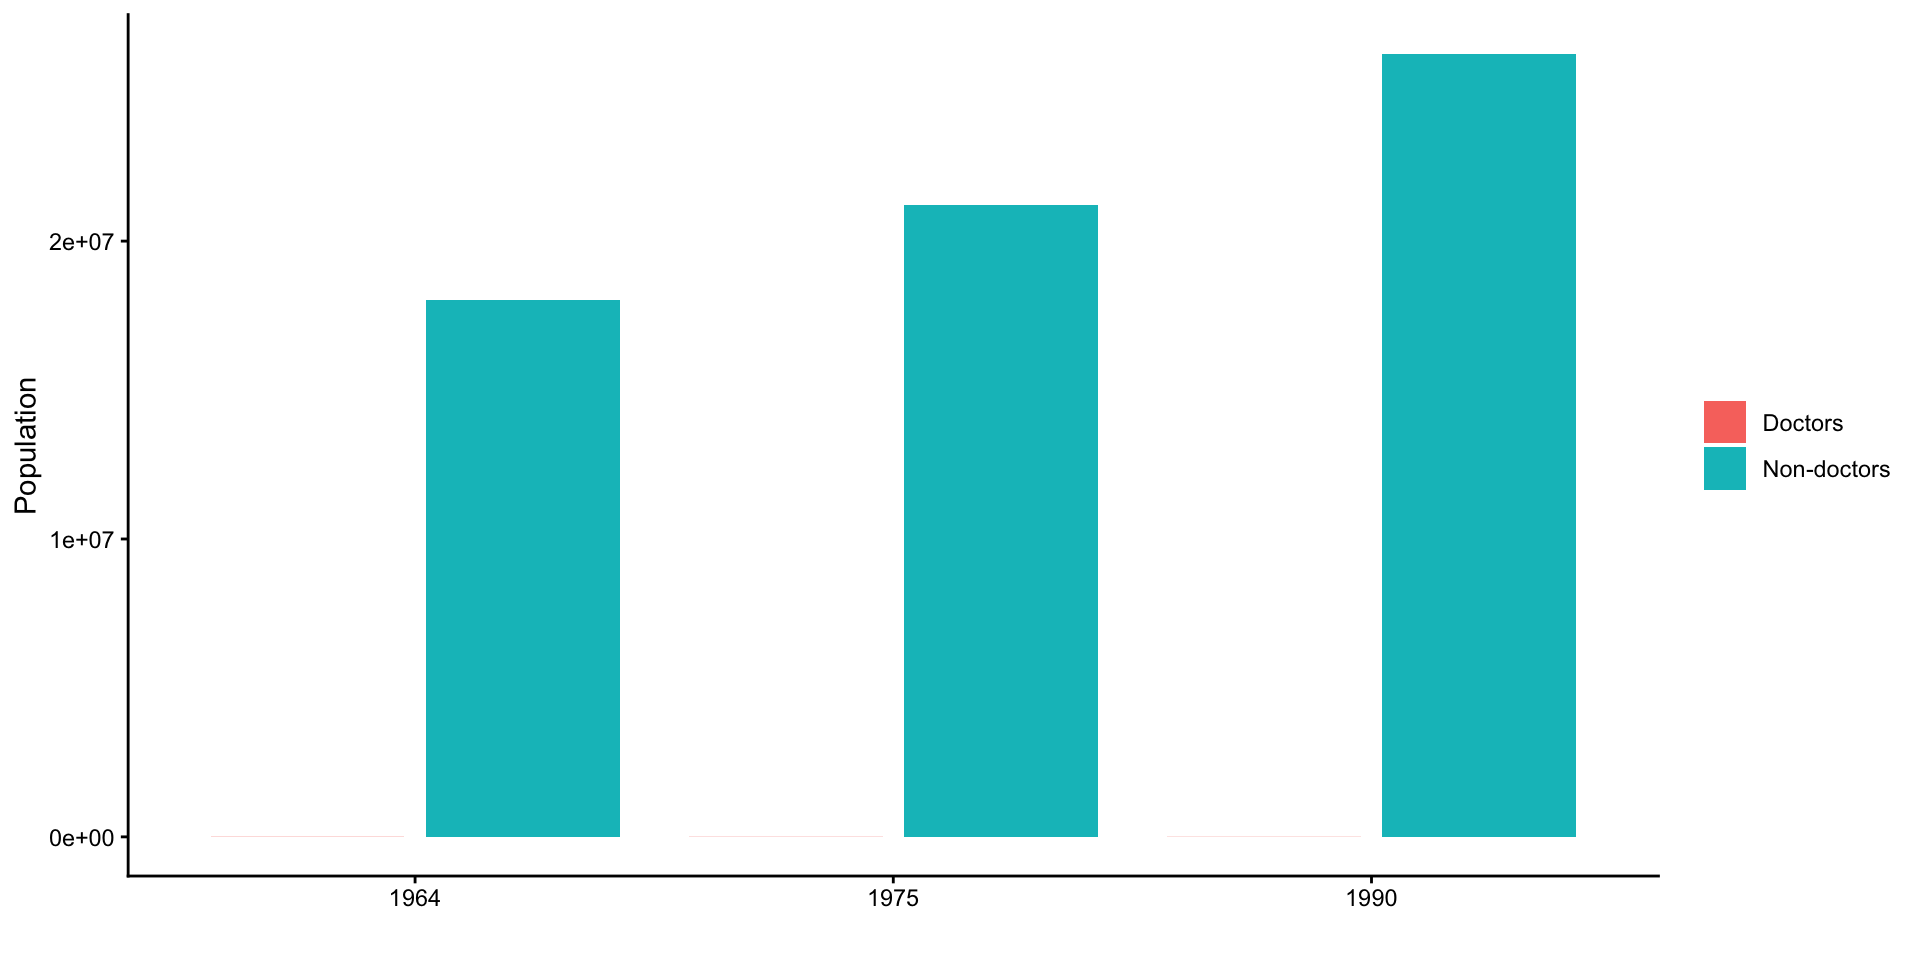
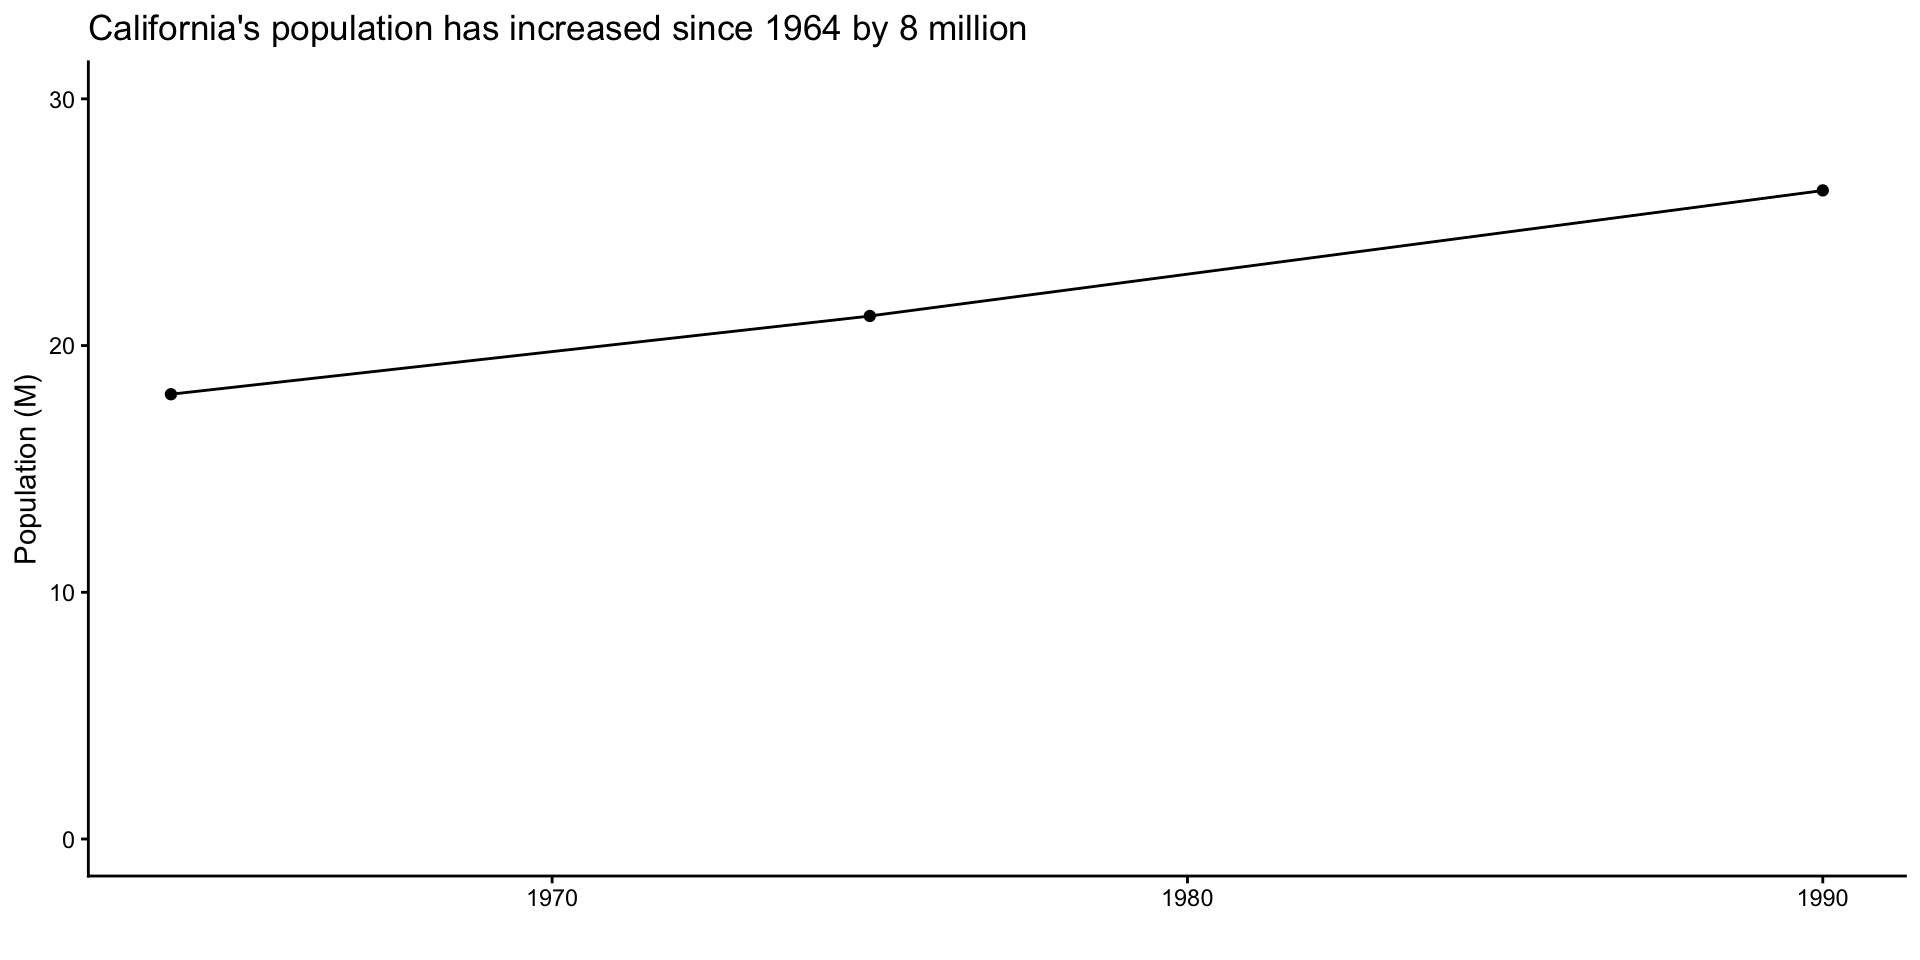
Polish 2026-10-14 slides.

diff --git a/docs/slides/wk-08-2026-10-14-storytelling.html b/docs/slides/wk-08-2026-10-14-storytelling.html
@@ -216,19 +216,6 @@
     }
   </style>
   <style>
-  .reveal div.callout-answer.callout {
-    border-left-color: blue;
-  }
-  .reveal div.callout-answer.callout-style-default .callout-title {
-    background-color: rgb(from blue r g b / 13%);
-  }
-  .reveal div.callout-answer.callout-style-default .callout-icon::before, .reveal div.callout-answer.callout-titled .callout-icon::before {
-    font-family: 'Font Awesome 7 Free';
-    font-weight: 900;
-    font-style: normal;
-    content: '\f00c' !important;
-    background-image: none;
-  }
   .reveal div.callout-question.callout {
     border-left-color: pink;
   }
@@ -240,6 +227,19 @@
     font-weight: 900;
     font-style: normal;
     content: '\3f' !important;
+    background-image: none;
+  }
+  .reveal div.callout-answer.callout {
+    border-left-color: blue;
+  }
+  .reveal div.callout-answer.callout-style-default .callout-title {
+    background-color: rgb(from blue r g b / 13%);
+  }
+  .reveal div.callout-answer.callout-style-default .callout-icon::before, .reveal div.callout-answer.callout-titled .callout-icon::before {
+    font-family: 'Font Awesome 7 Free';
+    font-weight: 900;
+    font-style: normal;
+    content: '\f00c' !important;
     background-image: none;
   }
   </style>
@@ -278,9 +278,12 @@ Rick Gilmore
 </section>
 <section id="last-time" class="slide level2">
 <h2>Last time…</h2>
+<div class="columns">
+<div class="column" style="width:50%;">
 <ul>
 <li>Tufte on critiquing figures</li>
 </ul>
+</div><div class="column" style="width:50%;">
 <div id="fig-tufte-p75" class="quarto-float quarto-figure quarto-figure-center">
 <figure class="quarto-float quarto-float-fig">
 <div aria-describedby="fig-tufte-p75-caption-0ceaefa1-69ba-4598-a22c-09a6ac19f8ca">
@@ -291,12 +294,7 @@ Figure&nbsp;1: <span class="citation" data-cites="Tufte2001-cb">Tufte (<a href="
 </figcaption>
 </figure>
 </div>
-</section>
-<section id="your-turn" class="slide level2">
-<h2>Your turn</h2>
-<ul>
-<li>What sort of data picture (figure) would be less misleading?</li>
-</ul>
+</div></div>
 </section>
 <section id="an-alternative" class="slide level2">
 <h2>An alternative</h2>
@@ -389,23 +387,59 @@ Figure&nbsp;2: Doctors in California by speciality 1964-1990.
 <details class="code-fold">
 <summary>Code</summary>
 <div class="code-copy-outer-scaffold"><div class="sourceCode cell-code" id="cb4"><pre class="sourceCode numberSource r number-lines code-with-copy"><code class="sourceCode r"><span id="cb4-1"><a></a>docs_df_another <span class="sc">|&gt;</span></span>
-<span id="cb4-2"><a></a>  <span class="fu">mutate</span>(<span class="at">years =</span> <span class="fu">factor</span>(years)) <span class="sc">|&gt;</span></span>
-<span id="cb4-3"><a></a>  <span class="fu">ggplot</span>() <span class="sc">+</span></span>
-<span id="cb4-4"><a></a>  <span class="fu">aes</span>(<span class="at">x =</span> years, <span class="at">y =</span> pop, <span class="at">fill =</span> docs_general) <span class="sc">+</span></span>
-<span id="cb4-5"><a></a>  <span class="fu">geom_bar</span>(<span class="at">stat =</span> <span class="st">"identity"</span>, <span class="at">position =</span> <span class="fu">position_dodge2</span>(<span class="at">preserve =</span> <span class="st">"single"</span>)) <span class="sc">+</span></span>
-<span id="cb4-6"><a></a>  <span class="fu">ylab</span>(<span class="st">"Population"</span>) <span class="sc">+</span></span>
-<span id="cb4-7"><a></a>  <span class="fu">xlab</span>(<span class="st">""</span>) <span class="sc">+</span></span>
-<span id="cb4-8"><a></a>  <span class="fu">theme_classic</span>() <span class="sc">+</span></span>
-<span id="cb4-9"><a></a>  <span class="fu">theme</span>(<span class="at">legend.title =</span> <span class="fu">element_blank</span>())</span></code></pre></div><button title="Copy to Clipboard" class="code-copy-button"><i class="bi"></i></button></div>
+<span id="cb4-2"><a></a>  <span class="fu">mutate</span>(<span class="at">pop_millions =</span> pop<span class="sc">/</span><span class="fl">1e6</span>) <span class="sc">|&gt;</span></span>
+<span id="cb4-3"><a></a>  <span class="fu">filter</span>(docs_general <span class="sc">==</span> <span class="st">"Non-doctors"</span>) <span class="sc">|&gt;</span></span>
+<span id="cb4-4"><a></a>  <span class="fu">ggplot</span>() <span class="sc">+</span></span>
+<span id="cb4-5"><a></a>  <span class="fu">aes</span>(<span class="at">x =</span> years, <span class="at">y =</span> pop_millions) <span class="sc">+</span></span>
+<span id="cb4-6"><a></a>  <span class="fu">geom_point</span>() <span class="sc">+</span></span>
+<span id="cb4-7"><a></a>  <span class="fu">geom_line</span>() <span class="sc">+</span></span>
+<span id="cb4-8"><a></a>  <span class="fu">ylab</span>(<span class="st">"Population (M)"</span>) <span class="sc">+</span></span>
+<span id="cb4-9"><a></a>  <span class="fu">xlab</span>(<span class="st">""</span>) <span class="sc">+</span></span>
+<span id="cb4-10"><a></a>  <span class="fu">ylim</span>(<span class="dv">0</span>, <span class="dv">30</span>) <span class="sc">+</span></span>
+<span id="cb4-11"><a></a>  <span class="fu">theme_classic</span>() <span class="sc">+</span></span>
+<span id="cb4-12"><a></a>  <span class="fu">ggtitle</span>(<span class="st">"California's population has increased since 1964 by 8 million"</span>)</span></code></pre></div><button title="Copy to Clipboard" class="code-copy-button"><i class="bi"></i></button></div>
 </details>
 <div class="cell-output-display">
 <div id="fig-docs-as-p-population" class="quarto-float quarto-figure quarto-figure-center">
 <figure class="quarto-float quarto-float-fig">
 <div aria-describedby="fig-docs-as-p-population-caption-0ceaefa1-69ba-4598-a22c-09a6ac19f8ca">
-<a href="include/fig/fig-docs-as-p-population-1.png" class="lightbox" data-gallery="quarto-lightbox-gallery-5" title="Figure&nbsp;3: Doctors vs.&nbsp;non-doctors in California as a fraction of the total population 1964-1990."><img data-src="include/fig/fig-docs-as-p-population-1.png" width="960"></a>
+<a href="include/fig/fig-docs-as-p-population-1.png" class="lightbox" data-gallery="quarto-lightbox-gallery-5" title="Figure&nbsp;3: California population 1964-1990."><img data-src="include/fig/fig-docs-as-p-population-1.png" width="960"></a>
 </div>
 <figcaption class="quarto-float-caption-bottom quarto-float-caption quarto-float-fig" id="fig-docs-as-p-population-caption-0ceaefa1-69ba-4598-a22c-09a6ac19f8ca">
-Figure&nbsp;3: Doctors vs.&nbsp;non-doctors in California as a fraction of the total population 1964-1990.
+Figure&nbsp;3: California population 1964-1990.
+</figcaption>
+</figure>
+</div>
+</div>
+</div>
+</section>
+<section class="slide level2">
+
+<div class="cell">
+<details class="code-fold">
+<summary>Code</summary>
+<div class="code-copy-outer-scaffold"><div class="sourceCode cell-code" id="cb5"><pre class="sourceCode numberSource r number-lines code-with-copy"><code class="sourceCode r"><span id="cb5-1"><a></a>docs_df_another <span class="sc">|&gt;</span></span>
+<span id="cb5-2"><a></a>  <span class="co"># mutate(years = factor(years)) |&gt;</span></span>
+<span id="cb5-3"><a></a>  <span class="fu">filter</span>(docs_general <span class="sc">==</span> <span class="st">"Doctors"</span>) <span class="sc">|&gt;</span></span>
+<span id="cb5-4"><a></a>  <span class="fu">ggplot</span>() <span class="sc">+</span></span>
+<span id="cb5-5"><a></a>  <span class="fu">aes</span>(<span class="at">x =</span> years, <span class="at">y =</span> pop) <span class="sc">+</span></span>
+<span id="cb5-6"><a></a>  <span class="fu">geom_point</span>() <span class="sc">+</span></span>
+<span id="cb5-7"><a></a>  <span class="fu">geom_line</span>() <span class="sc">+</span></span>
+<span id="cb5-8"><a></a>  <span class="fu">ylab</span>(<span class="st">"Doctors"</span>) <span class="sc">+</span></span>
+<span id="cb5-9"><a></a>  <span class="fu">xlab</span>(<span class="st">""</span>) <span class="sc">+</span></span>
+<span id="cb5-10"><a></a>  <span class="fu">ylim</span>(<span class="dv">0</span>, <span class="dv">10000</span>) <span class="sc">+</span></span>
+<span id="cb5-11"><a></a>  <span class="fu">theme_classic</span>() <span class="sc">+</span></span>
+<span id="cb5-12"><a></a>  <span class="fu">theme</span>(<span class="at">legend.title =</span> <span class="fu">element_blank</span>()) <span class="sc">+</span></span>
+<span id="cb5-13"><a></a>  <span class="fu">ggtitle</span>(<span class="st">"But the number of doctors has declined by 1,800."</span>)</span></code></pre></div><button title="Copy to Clipboard" class="code-copy-button"><i class="bi"></i></button></div>
+</details>
+<div class="cell-output-display">
+<div id="fig-population" class="quarto-float quarto-figure quarto-figure-center">
+<figure class="quarto-float quarto-float-fig">
+<div aria-describedby="fig-population-caption-0ceaefa1-69ba-4598-a22c-09a6ac19f8ca">
+<a href="include/fig/fig-population-1.png" class="lightbox" data-gallery="quarto-lightbox-gallery-6" title="Figure&nbsp;4: California doctors 1964-1990."><img data-src="include/fig/fig-population-1.png" width="960"></a>
+</div>
+<figcaption class="quarto-float-caption-bottom quarto-float-caption quarto-float-fig" id="fig-population-caption-0ceaefa1-69ba-4598-a22c-09a6ac19f8ca">
+Figure&nbsp;4: California doctors 1964-1990.
 </figcaption>
 </figure>
 </div>
@@ -429,10 +463,10 @@ Figure&nbsp;3: Doctors vs.&nbsp;non-doctors in California as a fraction of the t
 <div id="fig-what-is-a-story" class="quarto-float quarto-figure quarto-figure-center">
 <figure class="quarto-float quarto-float-fig">
 <div aria-describedby="fig-what-is-a-story-caption-0ceaefa1-69ba-4598-a22c-09a6ac19f8ca">
-<a href="../include/img/what-is-a-story.png" class="lightbox" data-gallery="quarto-lightbox-gallery-6" title="Figure&nbsp;4: https://literaryterms.net/story/"><img data-src="../include/img/what-is-a-story.png"></a>
+<a href="../include/img/what-is-a-story.png" class="lightbox" data-gallery="quarto-lightbox-gallery-7" title="Figure&nbsp;5: https://literaryterms.net/story/"><img data-src="../include/img/what-is-a-story.png"></a>
 </div>
 <figcaption class="quarto-float-caption-bottom quarto-float-caption quarto-float-fig" id="fig-what-is-a-story-caption-0ceaefa1-69ba-4598-a22c-09a6ac19f8ca">
-Figure&nbsp;4: https://literaryterms.net/story/
+Figure&nbsp;5: https://literaryterms.net/story/
 </figcaption>
 </figure>
 </div>
@@ -459,7 +493,7 @@ Figure&nbsp;4: https://literaryterms.net/story/
 </iframe>
 </div>
 <figcaption class="quarto-float-caption-bottom quarto-float-caption quarto-float-fig" id="fig-vonnegut-shapes-of-stories-caption-0ceaefa1-69ba-4598-a22c-09a6ac19f8ca">
-Figure&nbsp;5: <span class="citation" data-cites="Comberg2010-mo">Comberg (<a href="#/references" role="doc-biblioref" onclick="">2010</a>)</span>
+Figure&nbsp;6: <span class="citation" data-cites="Comberg2010-mo">Comberg (<a href="#/references" role="doc-biblioref" onclick="">2010</a>)</span>
 </figcaption>
 </figure>
 </div>
@@ -482,10 +516,10 @@ Figure&nbsp;5: <span class="citation" data-cites="Comberg2010-mo">Comberg (<a hr
 <div id="fig-schema-definition" class="quarto-float quarto-figure quarto-figure-center">
 <figure class="quarto-float quarto-float-fig">
 <div aria-describedby="fig-schema-definition-caption-0ceaefa1-69ba-4598-a22c-09a6ac19f8ca">
-<a href="../include/img/schema-definition.png" class="lightbox" data-gallery="quarto-lightbox-gallery-7" title="Figure&nbsp;6: "><img data-src="../include/img/schema-definition.png" id="fig-schema-definition"></a>
+<a href="../include/img/schema-definition.png" class="lightbox" data-gallery="quarto-lightbox-gallery-8" title="Figure&nbsp;7: "><img data-src="../include/img/schema-definition.png" id="fig-schema-definition"></a>
 </div>
 <figcaption class="quarto-float-caption-bottom quarto-float-caption quarto-float-fig quarto-uncaptioned" id="fig-schema-definition-caption-0ceaefa1-69ba-4598-a22c-09a6ac19f8ca">
-Figure&nbsp;6
+Figure&nbsp;7
 </figcaption>
 </figure>
 </div>
@@ -524,10 +558,10 @@ Figure&nbsp;6
 <div id="fig-semantic-maps" class="quarto-float quarto-figure quarto-figure-center" data-fig-align="center">
 <figure class="quarto-float quarto-float-fig">
 <div aria-describedby="fig-semantic-maps-caption-0ceaefa1-69ba-4598-a22c-09a6ac19f8ca">
-<a href="https://images.edrawsoft.com/articles/semantic-mapping/weather-concept-map.png" class="lightbox" data-gallery="quarto-lightbox-gallery-8" title="Figure&nbsp;7: "><img data-src="https://images.edrawsoft.com/articles/semantic-mapping/weather-concept-map.png" id="fig-semantic-maps" class="quarto-figure quarto-figure-center"></a>
+<a href="https://images.edrawsoft.com/articles/semantic-mapping/weather-concept-map.png" class="lightbox" data-gallery="quarto-lightbox-gallery-9" title="Figure&nbsp;8: "><img data-src="https://images.edrawsoft.com/articles/semantic-mapping/weather-concept-map.png" id="fig-semantic-maps" class="quarto-figure quarto-figure-center"></a>
 </div>
 <figcaption class="quarto-float-caption-bottom quarto-float-caption quarto-float-fig quarto-uncaptioned" id="fig-semantic-maps-caption-0ceaefa1-69ba-4598-a22c-09a6ac19f8ca">
-Figure&nbsp;7
+Figure&nbsp;8
 </figcaption>
 </figure>
 </div>
@@ -555,7 +589,7 @@ Figure&nbsp;7
 <h2>Case study 1: Before</h2>
 <div class="quarto-figure quarto-figure-center">
 <figure>
-<p><a href="../include/img/knafflic-case-01-before.png" class="lightbox" data-gallery="quarto-lightbox-gallery-9" title="@Knaflic2015-wq Chapter 1"><img data-src="../include/img/knafflic-case-01-before.png" style="width:75.0%" alt="Knaflic (2015) Chapter 1"></a></p>
+<p><a href="../include/img/knafflic-case-01-before.png" class="lightbox" data-gallery="quarto-lightbox-gallery-10" title="@Knaflic2015-wq Chapter 1"><img data-src="../include/img/knafflic-case-01-before.png" style="width:75.0%" alt="Knaflic (2015) Chapter 1"></a></p>
 <figcaption><span class="citation" data-cites="Knaflic2015-wq">Knaflic (<a href="#/references" role="doc-biblioref" onclick="">2015</a>)</span> Chapter 1</figcaption>
 </figure>
 </div>
@@ -566,7 +600,7 @@ Figure&nbsp;7
 <figure>
 <div class="quarto-figure quarto-figure-center">
 <figure>
-<p><a href="../include/img/knafflic-case-01-after.png" class="lightbox" data-gallery="quarto-lightbox-gallery-10" title="@Knaflic2015-wq Chapter 1"><img data-src="../include/img/knafflic-case-01-after.png" class="quarto-figure quarto-figure-center" style="width:65.0%" alt="Knaflic (2015) Chapter 1"></a></p>
+<p><a href="../include/img/knafflic-case-01-after.png" class="lightbox" data-gallery="quarto-lightbox-gallery-11" title="@Knaflic2015-wq Chapter 1"><img data-src="../include/img/knafflic-case-01-after.png" class="quarto-figure quarto-figure-center" style="width:55.0%" alt="Knaflic (2015) Chapter 1"></a></p>
 </figure>
 </div>
 <figcaption><span class="citation" data-cites="Knaflic2015-wq">Knaflic (<a href="#/references" role="doc-biblioref" onclick="">2015</a>)</span> Chapter 1</figcaption>
@@ -577,7 +611,7 @@ Figure&nbsp;7
 <h2>Case 2: Before</h2>
 <div class="quarto-figure quarto-figure-center">
 <figure>
-<p><a href="../include/img/knafflic-case-02-before.png" class="lightbox" data-gallery="quarto-lightbox-gallery-11" title="@Knaflic2015-wq Chapter 1"><img data-src="../include/img/knafflic-case-02-before.png" style="width:85.0%" alt="Knaflic (2015) Chapter 1"></a></p>
+<p><a href="../include/img/knafflic-case-02-before.png" class="lightbox" data-gallery="quarto-lightbox-gallery-12" title="@Knaflic2015-wq Chapter 1"><img data-src="../include/img/knafflic-case-02-before.png" style="width:85.0%" alt="Knaflic (2015) Chapter 1"></a></p>
 <figcaption><span class="citation" data-cites="Knaflic2015-wq">Knaflic (<a href="#/references" role="doc-biblioref" onclick="">2015</a>)</span> Chapter 1</figcaption>
 </figure>
 </div>
@@ -586,7 +620,7 @@ Figure&nbsp;7
 <h2>Case 2: After</h2>
 <div class="quarto-figure quarto-figure-center">
 <figure>
-<p><a href="../include/img/knafflic-case-02-after.png" class="lightbox" data-gallery="quarto-lightbox-gallery-12" title="@Knaflic2015-wq Chapter 1"><img data-src="../include/img/knafflic-case-02-after.png" style="width:65.0%" alt="Knaflic (2015) Chapter 1"></a></p>
+<p><a href="../include/img/knafflic-case-02-after.png" class="lightbox" data-gallery="quarto-lightbox-gallery-13" title="@Knaflic2015-wq Chapter 1"><img data-src="../include/img/knafflic-case-02-after.png" style="width:65.0%" alt="Knaflic (2015) Chapter 1"></a></p>
 <figcaption><span class="citation" data-cites="Knaflic2015-wq">Knaflic (<a href="#/references" role="doc-biblioref" onclick="">2015</a>)</span> Chapter 1</figcaption>
 </figure>
 </div>
@@ -595,7 +629,7 @@ Figure&nbsp;7
 <h2>Case 3: Before</h2>
 <div class="quarto-figure quarto-figure-center">
 <figure>
-<p><a href="../include/img/knafflic-case-03-before.png" class="lightbox" data-gallery="quarto-lightbox-gallery-13" title="@Knaflic2015-wq Chapter 1"><img data-src="../include/img/knafflic-case-03-before.png" style="width:75.0%" alt="Knaflic (2015) Chapter 1"></a></p>
+<p><a href="../include/img/knafflic-case-03-before.png" class="lightbox" data-gallery="quarto-lightbox-gallery-14" title="@Knaflic2015-wq Chapter 1"><img data-src="../include/img/knafflic-case-03-before.png" style="width:75.0%" alt="Knaflic (2015) Chapter 1"></a></p>
 <figcaption><span class="citation" data-cites="Knaflic2015-wq">Knaflic (<a href="#/references" role="doc-biblioref" onclick="">2015</a>)</span> Chapter 1</figcaption>
 </figure>
 </div>
@@ -604,7 +638,7 @@ Figure&nbsp;7
 <h2>Case 3: After</h2>
 <div class="quarto-figure quarto-figure-center">
 <figure>
-<p><a href="../include/img/knafflic-case-03-after.png" class="lightbox" data-gallery="quarto-lightbox-gallery-14" title="@Knaflic2015-wq Chapter 1"><img data-src="../include/img/knafflic-case-03-after.png" style="width:65.0%" alt="Knaflic (2015) Chapter 1"></a></p>
+<p><a href="../include/img/knafflic-case-03-after.png" class="lightbox" data-gallery="quarto-lightbox-gallery-15" title="@Knaflic2015-wq Chapter 1"><img data-src="../include/img/knafflic-case-03-after.png" style="width:65.0%" alt="Knaflic (2015) Chapter 1"></a></p>
 <figcaption><span class="citation" data-cites="Knaflic2015-wq">Knaflic (<a href="#/references" role="doc-biblioref" onclick="">2015</a>)</span> Chapter 1</figcaption>
 </figure>
 </div>
@@ -614,10 +648,10 @@ Figure&nbsp;7
 <div id="fig-knafflic-storyboarding" class="quarto-float quarto-figure quarto-figure-center">
 <figure class="quarto-float quarto-float-fig">
 <div aria-describedby="fig-knafflic-storyboarding-caption-0ceaefa1-69ba-4598-a22c-09a6ac19f8ca">
-<a href="../include/img/knafflic-fig-1.2-storyboarding.png" class="lightbox" data-gallery="quarto-lightbox-gallery-15" title="Figure&nbsp;8: @Knaflic2015-wq Chapter 1"><img data-src="../include/img/knafflic-fig-1.2-storyboarding.png" style="width:70.0%"></a>
+<a href="../include/img/knafflic-fig-1.2-storyboarding.png" class="lightbox" data-gallery="quarto-lightbox-gallery-16" title="Figure&nbsp;9: @Knaflic2015-wq Chapter 1"><img data-src="../include/img/knafflic-fig-1.2-storyboarding.png" style="width:70.0%"></a>
 </div>
 <figcaption class="quarto-float-caption-bottom quarto-float-caption quarto-float-fig" id="fig-knafflic-storyboarding-caption-0ceaefa1-69ba-4598-a22c-09a6ac19f8ca">
-Figure&nbsp;8: <span class="citation" data-cites="Knaflic2015-wq">Knaflic (<a href="#/references" role="doc-biblioref" onclick="">2015</a>)</span> Chapter 1
+Figure&nbsp;9: <span class="citation" data-cites="Knaflic2015-wq">Knaflic (<a href="#/references" role="doc-biblioref" onclick="">2015</a>)</span> Chapter 1
 </figcaption>
 </figure>
 </div>
